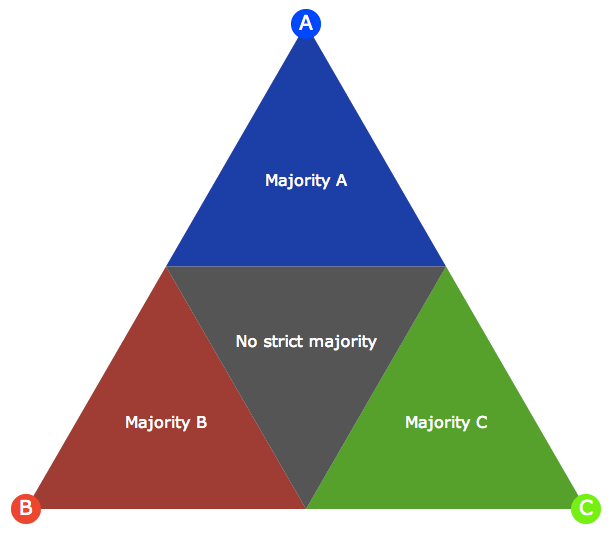
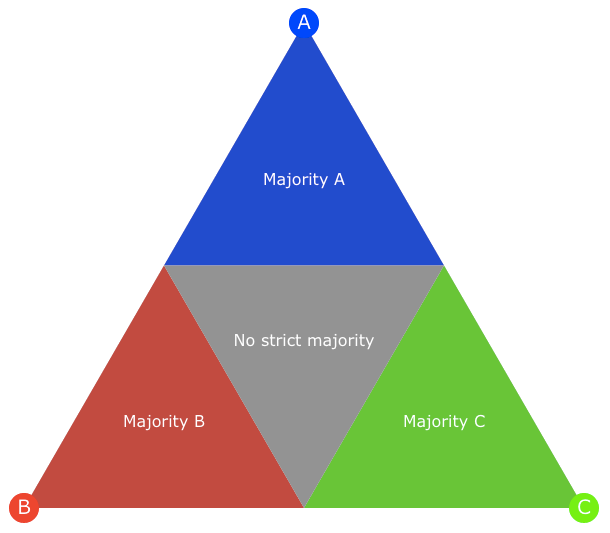
color tweak to ternary

diff --git a/_posts/2014-01-07-mtlelection-ternary.md b/_posts/2014-01-07-mtlelection-ternary.md
@@ -13,7 +13,7 @@ In the Montreal mayoral election last November, nearly 85% of the vote went to o
 
 <!-- more -->
 
-A ternary plot for a three-way vote split is basically just a triangle with a candidate in each corner. Every point within that triangle represents a split of votes: each point represents one possible three-way pie-chart, and all possible three-way pie-charts map to a point in the triangle. The corners represent 100% of the votes going to that corner's candidate, and the further away the point is from a corner, the smaller the proportion of votes that corner's candidate got. 
+A ternary plot for a three-way vote split is basically just a triangle with a candidate in each corner. Every point within that triangle represents a split of votes: you can think of each point representing one possible three-way pie-chart, and all possible three-way pie-charts mapping to a point in the triangle. The corners represent 100% of the votes going to that corner's candidate, and the further away the point is from a corner, the smaller the proportion of votes that corner's candidate got. 
 
 As it happens, the way computer monitors display color is by independently varying the amount of red, green and blue light that gets shown, so if you assign those colours to the points of the triangle, then each point in the triangle gets its own shade (even though many of those shades are ugly!), and this is how the points and triangles I'm showing below were coloured.
 
@@ -29,9 +29,13 @@ Applying this rule repeatedly and applying basic logic, we can actually split th
 
 ![Ranks](http://nicolas.kruchten.com/images/ternary/ranks.png)
 
-Finally, if we draw lines between the face midpoints, we create three new triangles. Points in the outer triangles represent vote splits with clear, 50%-plus majorities, whereas the inner triangle represents points where the winner didn't get a clear majority:
+Additionally, if we draw lines between the face midpoints, we create three new triangles. Points in the outer triangles represent vote splits with clear, 50%-plus majorities, whereas the inner triangle represents points where the winner didn't get a clear majority:
 
 ![Majorities](http://nicolas.kruchten.com/images/ternary/majorities.png)
+
+Putting it all together, we can divide the triangle into twelve zones, as below. The labels can be interpreted as follows: "Abc" means that A came in first, with a majority, followed by B then C; "abc" means that A came in first without a majority, followed by B then C.
+
+![Majorities](http://nicolas.kruchten.com/images/ternary/full.png)
 
 So how does this visualization technique help us understand what happened in the recent Montreal mayoral election? The following visualization shows us each of the 52 electoral districts as points in a ternary plot, and I drew an actual map of Montreal next to it. The [interactive version][iv] lets you mouse over the points to light up which region it represents. The points in the ternary plot are sized by the number of votes in the district. 
 
